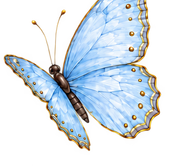
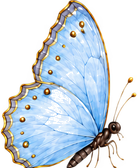
feat: rediseño de intro overlay sin borde oscuro con mariposa animada en esquina y botones de idioma ornamentales

diff --git a/src/components/templates/BlueButterflyTemplate.tsx b/src/components/templates/BlueButterflyTemplate.tsx
@@ -348,37 +348,34 @@ export default function BlueButterflyTemplate({
         <aside
           id="envelopeOverlay"
           onClick={() => handleOpenEnvelope()}
-          className={`fixed inset-0 z-50 bg-[#142333]/95 backdrop-blur-sm flex flex-col items-center justify-center p-4 transition-opacity duration-700 select-none ${
+          className={`fixed inset-0 z-50 flex flex-col items-center justify-center p-4 transition-opacity duration-700 select-none bg-[#EBF3FA] bg-[url('/assets/template-butterfly/fondo-cielo-acuarela.png')] bg-cover bg-center ${
             isEnvelopeFading ? "opacity-0 pointer-events-none" : "opacity-100"
           }`}
         >
-          <div className="text-center mb-6 text-blue-100 font-serif-roman">
-            <p className="text-[11px] uppercase tracking-[0.3em] text-[#D8B772]">
-              Tienes una invitación especial
-            </p>
-            <p className="text-base mt-1.5 italic text-blue-200 font-cormorant">
-              {guestRecipient}
-            </p>
-            <p className="text-xs mt-1 text-blue-300/80 font-cormorant">
-              Toca el sello para abrir tu invitación
-            </p>
+          {/* Título Superior Cursivo */}
+          <div className="text-center mb-4 sm:mb-6">
+            <h2 className="font-script text-5xl sm:text-6xl md:text-7xl text-[#6B9AC4] drop-shadow-sm font-normal">
+              You&apos;ve been invited
+            </h2>
+            {guestRecipient && guestRecipient !== "Familia & Amigos" && (
+              <p className="text-sm mt-1 text-[#7A9BBF] font-serif-roman italic tracking-wider">
+                {guestRecipient}
+              </p>
+            )}
           </div>
 
-          {/* Contenedor del Sobre Físico 3D con Assets Originales */}
+          {/* Contenedor del Sobre Físico 3D */}
           <div
             id="envelopeContainer"
-            className="relative w-80 sm:w-96 h-56 sm:h-64 cursor-pointer group"
+            className="relative w-[310px] sm:w-[410px] md:w-[460px] aspect-[5/4] cursor-pointer group"
             style={{ perspective: "1000px" }}
           >
-            {/* Fondo / Solapa trasera interna */}
-            <div className="absolute inset-0 bg-[#E8D9CD] rounded-2xl shadow-2xl" />
-
             {/* Tarjeta interior que sale deslizándose con borde dorado */}
             <div
               id="innerCard"
-              className={`absolute left-5 right-5 top-5 bottom-5 bg-[#FFFEFC] rounded-xl p-5 shadow-lg flex flex-col items-center justify-center text-center transform transition-transform duration-700 ease-out border border-[#D8B772]/60 ${
+              className={`absolute left-4 right-4 top-4 bottom-4 bg-[#FFFEFC] rounded-xl p-5 shadow-lg flex flex-col items-center justify-center text-center transform transition-transform duration-700 ease-out border border-[#D8B772]/60 ${
                 isLetterOut
-                  ? "-translate-y-32 scale-105 z-25 shadow-2xl"
+                  ? "-translate-y-28 sm:-translate-y-36 scale-105 z-25 shadow-2xl"
                   : "z-10 translate-y-0"
               }`}
             >
@@ -400,9 +397,9 @@ export default function BlueButterflyTemplate({
               </p>
             </div>
 
-            {/* Si está cerrado: Sobre beige original con flores en esquinas */}
+            {/* Si está cerrado: Sobre beige con sello celeste y mariposa perchada aleteando */}
             {!isEnvelopeOpen ? (
-              <div className="absolute inset-0 z-20 pointer-events-none rounded-2xl overflow-hidden shadow-2xl">
+              <div className="absolute inset-0 z-20 pointer-events-none drop-shadow-xl">
                 {/* eslint-disable-next-line @next/next/no-img-element */}
                 <img
                   src="/assets/template-butterfly/sobre-cerrado.png"
@@ -410,13 +407,13 @@ export default function BlueButterflyTemplate({
                   className="w-full h-full object-contain"
                 />
 
-                {/* Mariposa aleteando en 3D sobre el sello */}
-                <div className="absolute top-[48%] left-[50%] -translate-x-1/2 -translate-y-1/2 z-30 pointer-events-none">
+                {/* Mariposa aleteando en 3D perchada en la esquina inferior izquierda (como en la foto de referencia) */}
+                <div className="absolute -bottom-3 -left-4 sm:-bottom-4 sm:-left-6 z-30 pointer-events-none rotate-[22deg] drop-shadow-md">
                   {/* eslint-disable-next-line @next/next/no-img-element */}
                   <img
-                    src="/assets/template-butterfly/mariposa-azul.png"
+                    src="/assets/template-butterfly/mariposa-perchada.png"
                     alt="Mariposa viva"
-                    className="w-12 h-auto object-contain animate-flutter drop-shadow-md"
+                    className="w-16 sm:w-20 md:w-24 h-auto object-contain animate-flutter"
                   />
                 </div>
               </div>
@@ -433,43 +430,68 @@ export default function BlueButterflyTemplate({
             )}
           </div>
 
-          {/* Botones de Apertura según Modo de Idioma */}
+          {/* Botones de Selección de Idioma con Marco Ornamental de la Foto */}
           {isBilingual ? (
-            <div className="mt-8 flex flex-col items-center gap-2.5 z-30">
-              <span className="text-[10px] font-serif-roman tracking-[0.25em] uppercase text-white/70">
-                Selecciona tu idioma / Choose your language
-              </span>
-              <div className="flex items-center gap-3">
-                <button
-                  type="button"
-                  onClick={(e) => {
-                    e.stopPropagation();
-                    handleOpenEnvelope("es");
-                  }}
-                  className="inline-flex items-center gap-2 text-xs font-serif-roman tracking-[0.2em] uppercase text-[#FBF6E9] bg-white/15 hover:bg-white/25 px-5 py-2.5 rounded-full border border-[#D8B772]/70 shadow-lg hover:scale-105 active:scale-95 transition backdrop-blur-sm cursor-pointer"
-                >
-                  <span className="text-base">🇲🇽</span> Español
-                </button>
-                <button
-                  type="button"
-                  onClick={(e) => {
-                    e.stopPropagation();
-                    handleOpenEnvelope("en");
-                  }}
-                  className="inline-flex items-center gap-2 text-xs font-serif-roman tracking-[0.2em] uppercase text-[#FBF6E9] bg-white/15 hover:bg-white/25 px-5 py-2.5 rounded-full border border-[#D8B772]/70 shadow-lg hover:scale-105 active:scale-95 transition backdrop-blur-sm cursor-pointer"
-                >
-                  <span className="text-base">🇺🇸</span> English
-                </button>
-              </div>
+            <div className="mt-6 sm:mt-8 flex items-center justify-center gap-3 sm:gap-5 z-30">
+              <button
+                type="button"
+                onClick={(e) => {
+                  e.stopPropagation();
+                  handleOpenEnvelope("en");
+                }}
+                className="relative inline-flex items-center justify-center w-36 sm:w-44 h-14 sm:h-16 group cursor-pointer transition-transform duration-300 hover:scale-105 active:scale-95"
+              >
+                {/* eslint-disable-next-line @next/next/no-img-element */}
+                <img
+                  src="/assets/template-butterfly/boton-idioma-marco.png"
+                  alt="English"
+                  className="absolute inset-0 w-full h-full object-contain pointer-events-none drop-shadow-sm group-hover:drop-shadow-md transition-all"
+                />
+                <span className="relative z-10 font-serif-roman text-xs sm:text-sm tracking-[0.25em] uppercase text-[#7A9BBF] font-semibold pt-0.5">
+                  ENGLISH
+                </span>
+              </button>
+
+              <button
+                type="button"
+                onClick={(e) => {
+                  e.stopPropagation();
+                  handleOpenEnvelope("es");
+                }}
+                className="relative inline-flex items-center justify-center w-36 sm:w-44 h-14 sm:h-16 group cursor-pointer transition-transform duration-300 hover:scale-105 active:scale-95"
+              >
+                {/* eslint-disable-next-line @next/next/no-img-element */}
+                <img
+                  src="/assets/template-butterfly/boton-idioma-marco.png"
+                  alt="Español"
+                  className="absolute inset-0 w-full h-full object-contain pointer-events-none drop-shadow-sm group-hover:drop-shadow-md transition-all"
+                />
+                <span className="relative z-10 font-serif-roman text-xs sm:text-sm tracking-[0.25em] uppercase text-[#7A9BBF] font-semibold pt-0.5">
+                  ESPAÑOL
+                </span>
+              </button>
             </div>
           ) : (
-            <button
-              type="button"
-              onClick={() => handleOpenEnvelope()}
-              className="mt-8 text-[11px] font-serif-roman tracking-[0.25em] uppercase text-[#E7CD91] bg-white/10 px-6 py-2.5 rounded-full border border-[#C5A059]/40 hover:bg-white/20 transition cursor-pointer"
-            >
-              {isEn ? "Tap envelope to open" : "Toca el sobre para abrir"}
-            </button>
+            <div className="mt-6 sm:mt-8 flex items-center justify-center z-30">
+              <button
+                type="button"
+                onClick={(e) => {
+                  e.stopPropagation();
+                  handleOpenEnvelope(isEn ? "en" : "es");
+                }}
+                className="relative inline-flex items-center justify-center w-40 sm:w-48 h-14 sm:h-16 group cursor-pointer transition-transform duration-300 hover:scale-105 active:scale-95"
+              >
+                {/* eslint-disable-next-line @next/next/no-img-element */}
+                <img
+                  src="/assets/template-butterfly/boton-idioma-marco.png"
+                  alt={isEn ? "English" : "Español"}
+                  className="absolute inset-0 w-full h-full object-contain pointer-events-none drop-shadow-sm group-hover:drop-shadow-md transition-all"
+                />
+                <span className="relative z-10 font-serif-roman text-xs sm:text-sm tracking-[0.25em] uppercase text-[#7A9BBF] font-semibold pt-0.5">
+                  {isEn ? "ENGLISH" : "ESPAÑOL"}
+                </span>
+              </button>
+            </div>
           )}
         </aside>
       )}
